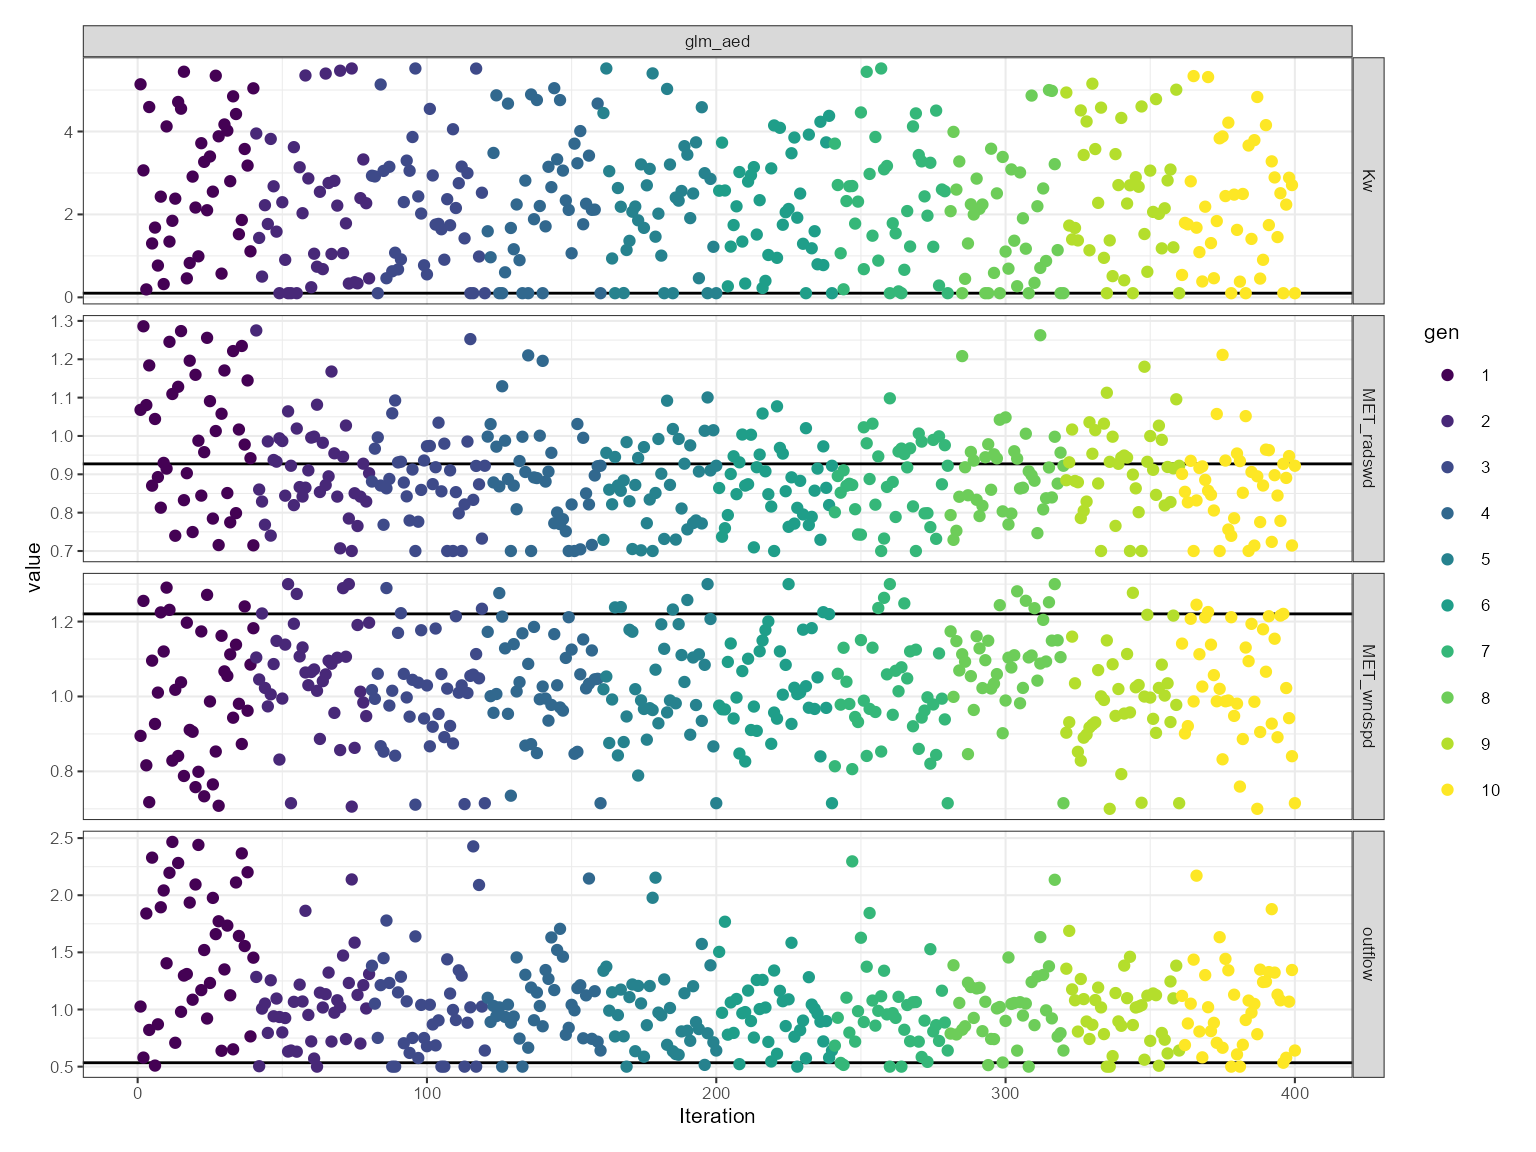
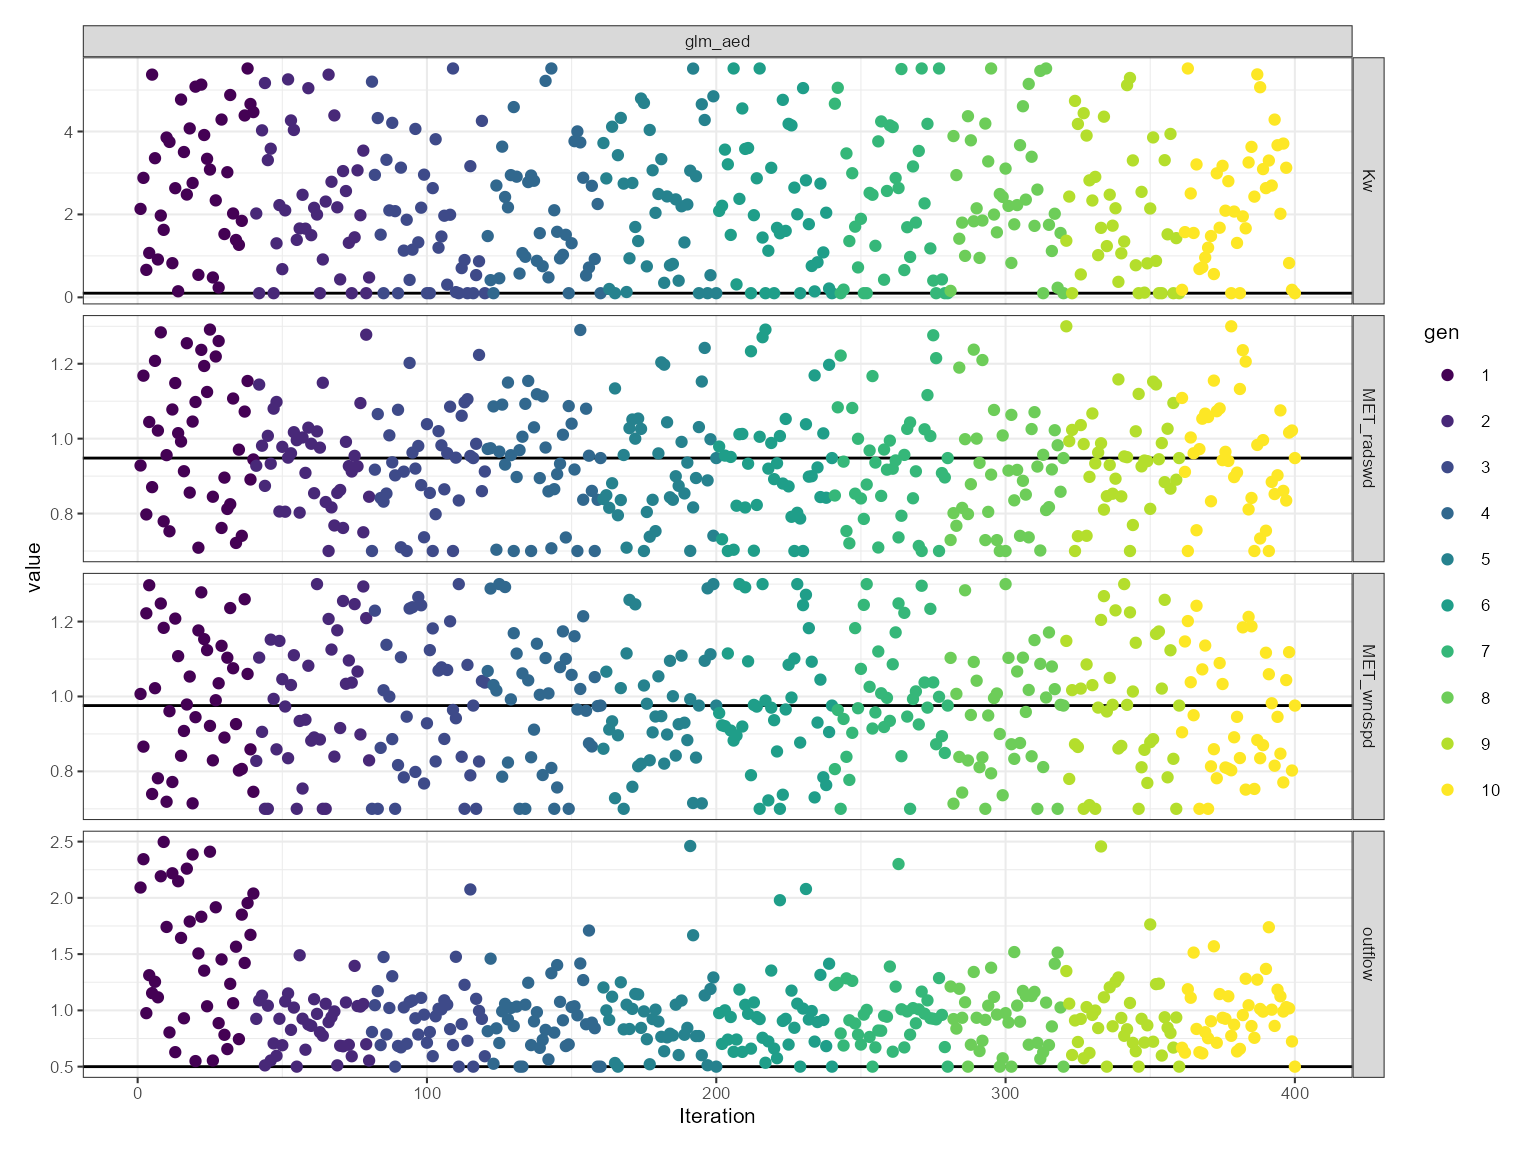
Deploying to gh-pages from @ limnotrack/aemetools@73e5802cea5f5069bd4aa08139f7fc129046e0c2 🚀

diff --git a/articles/calibrate-aeme.html b/articles/calibrate-aeme.html
@@ -121,9 +121,9 @@ make sure the current model setup is working.</p>
 <code class="sourceCode R"><span><span class="va">aeme_data</span> <span class="op">&lt;-</span> <span class="fu"><a href="https://rdrr.io/pkg/AEME/man/run_aeme.html" class="external-link">run_aeme</a></span><span class="op">(</span>aeme_data <span class="op">=</span> <span class="va">aeme_data</span>, model <span class="op">=</span> <span class="va">model</span>,</span>
 <span>                      verbose <span class="op">=</span> <span class="cn">FALSE</span>, mod_ctrls <span class="op">=</span> <span class="va">mod_ctrls</span>,</span>
 <span>                      path <span class="op">=</span> <span class="va">path</span><span class="op">)</span></span>
-<span><span class="co">#&gt; Running models... (Have you tried parallelizing?) [2023-11-07 03:07:08.982566]</span></span>
-<span><span class="co">#&gt; GLM-AED run successful! [2023-11-07 03:07:09.839955]</span></span>
-<span><span class="co">#&gt; Model run complete![2023-11-07 03:07:09.840931]</span></span>
+<span><span class="co">#&gt; Running models... (Have you tried parallelizing?) [2023-11-07 18:21:38.476862]</span></span>
+<span><span class="co">#&gt; GLM-AED run successful! [2023-11-07 18:21:39.209794]</span></span>
+<span><span class="co">#&gt; Model run complete![2023-11-07 18:21:39.210739]</span></span>
 <span><span class="co">#&gt; Retrieving and formatting temp for model glm_aed</span></span>
 <span><span class="co">#&gt; Retrieving and formatting salt for model glm_aed</span></span>
 <span><span class="fu"><a href="https://rdrr.io/r/graphics/plot.default.html" class="external-link">plot</a></span><span class="op">(</span><span class="va">aeme_data</span><span class="op">)</span></span></code></pre></div>
@@ -228,9 +228,9 @@ but the model output is generate within the lake folder.</p>
 <div class="sourceCode" id="cb7"><pre class="downlit sourceCode r">
 <code class="sourceCode R"><span><span class="fu"><a href="../reference/run_aeme_param.html">run_aeme_param</a></span><span class="op">(</span>aeme_data <span class="op">=</span> <span class="va">aeme_data</span>, param <span class="op">=</span> <span class="va">aeme_parameters</span>,</span>
 <span>                 model <span class="op">=</span> <span class="va">model</span>, path <span class="op">=</span> <span class="va">path</span>, mod_ctrls <span class="op">=</span> <span class="va">mod_ctrls</span><span class="op">)</span></span>
-<span><span class="co">#&gt; Running models... (Have you tried parallelizing?) [2023-11-07 03:07:20.865187]</span></span>
-<span><span class="co">#&gt; GLM-AED run successful! [2023-11-07 03:07:21.692246]</span></span>
-<span><span class="co">#&gt; Model run complete![2023-11-07 03:07:21.693143]</span></span></code></pre></div>
+<span><span class="co">#&gt; Running models... (Have you tried parallelizing?) [2023-11-07 18:21:52.118852]</span></span>
+<span><span class="co">#&gt; GLM-AED run successful! [2023-11-07 18:21:52.84572]</span></span>
+<span><span class="co">#&gt; Model run complete![2023-11-07 18:21:52.84661]</span></span></code></pre></div>
 </div>
 <div class="section level2">
 <h2 id="calibration-setup">Calibration setup<a class="anchor" aria-label="anchor" href="#calibration-setup"></a>
@@ -364,79 +364,79 @@ values.</p>
 <span>                   param <span class="op">=</span> <span class="va">aeme_parameters</span>, model <span class="op">=</span> <span class="va">model</span>,</span>
 <span>                   mod_ctrls <span class="op">=</span> <span class="va">mod_ctrls</span>, FUN <span class="op">=</span> <span class="va">fit</span>, ctrl <span class="op">=</span> <span class="va">ctrl</span>,</span>
 <span>                   vars_sim <span class="op">=</span> <span class="va">vars_sim</span>, weights <span class="op">=</span> <span class="va">weights</span><span class="op">)</span></span>
-<span><span class="co">#&gt; Extracting indices for modelled variables [2023-11-07 03:07:22.087382]</span></span>
-<span><span class="co">#&gt; Complete! [2023-11-07 03:07:23.004649]</span></span>
+<span><span class="co">#&gt; Extracting indices for modelled variables [2023-11-07 18:21:53.186543]</span></span>
+<span><span class="co">#&gt; Complete! [2023-11-07 18:21:54.066257]</span></span>
 <span><span class="co">#&gt; Calibrating in parallel using 1 cores...</span></span>
-<span><span class="co">#&gt; Starting generation 1/10, 40 members. [2023-11-07 03:07:23.305832]</span></span>
+<span><span class="co">#&gt; Starting generation 1/10, 40 members. [2023-11-07 18:21:54.332889]</span></span>
 <span><span class="co">#&gt;        light.Kw MET_wndspd MET_radswd outflow</span></span>
-<span><span class="co">#&gt; mean      2.816     0.9990     0.9994  1.4990</span></span>
-<span><span class="co">#&gt; median    2.857     0.9985     1.0000  1.4870</span></span>
-<span><span class="co">#&gt; sd        1.578     0.1743     0.1742  0.5879</span></span>
-<span><span class="co">#&gt; Best fit: 3.004 (sd: 325.652)</span></span>
-<span><span class="co">#&gt;             Parameters: [0.457, 1.197, 0.903, 1.31]</span></span>
+<span><span class="co">#&gt; mean      2.805     0.9995     0.9997  1.4990</span></span>
+<span><span class="co">#&gt; median    2.820     0.9983     1.0040  1.4790</span></span>
+<span><span class="co">#&gt; sd        1.597     0.1754     0.1766  0.5871</span></span>
+<span><span class="co">#&gt; Best fit: 2.79 (sd: 325.833)</span></span>
+<span><span class="co">#&gt;             Parameters: [0.479, 0.829, 0.845, 0.554]</span></span>
 <span><span class="co">#&gt; Survival rate: 1</span></span>
-<span><span class="co">#&gt; Starting generation 2/10, 40 members. [2023-11-07 03:08:03.691442]</span></span>
+<span><span class="co">#&gt; Starting generation 2/10, 40 members. [2023-11-07 18:22:30.49394]</span></span>
 <span><span class="co">#&gt;        light.Kw MET_wndspd MET_radswd outflow</span></span>
-<span><span class="co">#&gt; mean      2.034     1.0560     0.9097  1.0350</span></span>
-<span><span class="co">#&gt; median    1.907     1.0650     0.8988  1.0190</span></span>
-<span><span class="co">#&gt; sd        1.611     0.1415     0.1185  0.3445</span></span>
-<span><span class="co">#&gt; Best fit: 2.3153 (sd: 194.54)</span></span>
+<span><span class="co">#&gt; mean      2.304     0.9845     0.9390  0.8776</span></span>
+<span><span class="co">#&gt; median    2.129     0.9834     0.9412  0.9101</span></span>
+<span><span class="co">#&gt; sd        1.559     0.1780     0.1223  0.2378</span></span>
+<span><span class="co">#&gt; Best fit: 2.3165 (sd: 119.15)</span></span>
 <span><span class="co">#&gt; Survival rate: 1</span></span>
-<span><span class="co">#&gt; Starting generation 3/10, 40 members. [2023-11-07 03:08:44.778099]</span></span>
+<span><span class="co">#&gt; Starting generation 3/10, 40 members. [2023-11-07 18:23:07.828756]</span></span>
 <span><span class="co">#&gt;        light.Kw MET_wndspd MET_radswd outflow</span></span>
-<span><span class="co">#&gt; mean      2.210     1.0030     0.8888  1.0210</span></span>
-<span><span class="co">#&gt; median    2.226     1.0160     0.8799  1.0080</span></span>
-<span><span class="co">#&gt; sd        1.497     0.1381     0.1147  0.4438</span></span>
-<span><span class="co">#&gt; Best fit: 2.3153 (sd: 230.88)</span></span>
+<span><span class="co">#&gt; mean      1.854     0.9749     0.9268  0.9397</span></span>
+<span><span class="co">#&gt; median    1.489     0.9698     0.9284  0.9387</span></span>
+<span><span class="co">#&gt; sd        1.589     0.1838     0.1344  0.3052</span></span>
+<span><span class="co">#&gt; Best fit: 2.3126 (sd: 158.1)</span></span>
 <span><span class="co">#&gt; Survival rate: 1</span></span>
-<span><span class="co">#&gt; Starting generation 4/10, 40 members. [2023-11-07 03:09:26.310588]</span></span>
+<span><span class="co">#&gt; Starting generation 4/10, 40 members. [2023-11-07 18:23:44.351814]</span></span>
 <span><span class="co">#&gt;        light.Kw MET_wndspd MET_radswd outflow</span></span>
-<span><span class="co">#&gt; mean      2.396     1.0260     0.8890  1.0630</span></span>
-<span><span class="co">#&gt; median    2.221     1.0280     0.8889  1.0310</span></span>
-<span><span class="co">#&gt; sd        1.564     0.1285     0.1301  0.3361</span></span>
-<span><span class="co">#&gt; Best fit: 2.3153 (sd: 217.68)</span></span>
+<span><span class="co">#&gt; mean      1.988     0.9905     0.9437  0.9209</span></span>
+<span><span class="co">#&gt; median    1.564     1.0120     0.9551  0.8967</span></span>
+<span><span class="co">#&gt; sd        1.445     0.1688     0.1470  0.2887</span></span>
+<span><span class="co">#&gt; Best fit: 2.3126 (sd: 164.27)</span></span>
 <span><span class="co">#&gt; Survival rate: 1</span></span>
-<span><span class="co">#&gt; Starting generation 5/10, 40 members. [2023-11-07 03:10:06.952349]</span></span>
+<span><span class="co">#&gt; Starting generation 5/10, 40 members. [2023-11-07 18:24:21.590233]</span></span>
 <span><span class="co">#&gt;        light.Kw MET_wndspd MET_radswd outflow</span></span>
-<span><span class="co">#&gt; mean      2.286     1.0320     0.8770  0.9948</span></span>
-<span><span class="co">#&gt; median    2.261     1.0060     0.8723  0.9500</span></span>
-<span><span class="co">#&gt; sd        1.497     0.1406     0.1085  0.3671</span></span>
-<span><span class="co">#&gt; Best fit: 2.3153 (sd: 198.72)</span></span>
+<span><span class="co">#&gt; mean      2.315     0.9584     0.9215  0.9369</span></span>
+<span><span class="co">#&gt; median    2.398     0.9400     0.8917  0.8731</span></span>
+<span><span class="co">#&gt; sd        1.645     0.1563     0.1434  0.3550</span></span>
+<span><span class="co">#&gt; Best fit: 2.3126 (sd: 141.28)</span></span>
 <span><span class="co">#&gt; Survival rate: 1</span></span>
-<span><span class="co">#&gt; Starting generation 6/10, 40 members. [2023-11-07 03:10:47.974235]</span></span>
+<span><span class="co">#&gt; Starting generation 6/10, 40 members. [2023-11-07 18:24:58.867727]</span></span>
 <span><span class="co">#&gt;        light.Kw MET_wndspd MET_radswd outflow</span></span>
-<span><span class="co">#&gt; mean      2.138     1.0240    0.87190  0.9590</span></span>
-<span><span class="co">#&gt; median    2.092     1.0050    0.86770  0.9651</span></span>
-<span><span class="co">#&gt; sd        1.309     0.1263    0.09533  0.2917</span></span>
-<span><span class="co">#&gt; Best fit: 2.3153 (sd: 172.73)</span></span>
+<span><span class="co">#&gt; mean      2.228     0.9776     0.9260  0.9327</span></span>
+<span><span class="co">#&gt; median    2.022     0.9605     0.9215  0.9169</span></span>
+<span><span class="co">#&gt; sd        1.613     0.1761     0.1562  0.3404</span></span>
+<span><span class="co">#&gt; Best fit: 2.3126 (sd: 180.25)</span></span>
 <span><span class="co">#&gt; Survival rate: 1</span></span>
-<span><span class="co">#&gt; Starting generation 7/10, 40 members. [2023-11-07 03:11:29.557192]</span></span>
+<span><span class="co">#&gt; Starting generation 7/10, 40 members. [2023-11-07 18:25:35.749183]</span></span>
 <span><span class="co">#&gt;        light.Kw MET_wndspd MET_radswd outflow</span></span>
-<span><span class="co">#&gt; mean      2.321     1.0040     0.8813  0.9679</span></span>
-<span><span class="co">#&gt; median    2.379     0.9844     0.8777  0.9146</span></span>
-<span><span class="co">#&gt; sd        1.506     0.1343     0.1014  0.3732</span></span>
-<span><span class="co">#&gt; Best fit: 2.3153 (sd: 205.18)</span></span>
+<span><span class="co">#&gt; mean      2.262     0.9972     0.9298  0.9635</span></span>
+<span><span class="co">#&gt; median    2.080     0.9730     0.9279  0.9368</span></span>
+<span><span class="co">#&gt; sd        1.757     0.1528     0.1492  0.3070</span></span>
+<span><span class="co">#&gt; Best fit: 2.3126 (sd: 130.82)</span></span>
 <span><span class="co">#&gt; Survival rate: 1</span></span>
-<span><span class="co">#&gt; Starting generation 8/10, 40 members. [2023-11-07 03:12:10.921835]</span></span>
+<span><span class="co">#&gt; Starting generation 8/10, 40 members. [2023-11-07 18:26:12.821861]</span></span>
 <span><span class="co">#&gt;        light.Kw MET_wndspd MET_radswd outflow</span></span>
-<span><span class="co">#&gt; mean      1.863      1.091     0.9013   1.012</span></span>
-<span><span class="co">#&gt; median    1.952      1.100     0.8904   1.001</span></span>
-<span><span class="co">#&gt; sd        1.469      0.116     0.1120   0.321</span></span>
-<span><span class="co">#&gt; Best fit: 2.3153 (sd: 184.88)</span></span>
+<span><span class="co">#&gt; mean      2.477     0.9494     0.8998  0.9401</span></span>
+<span><span class="co">#&gt; median    2.176     0.9672     0.8957  0.9343</span></span>
+<span><span class="co">#&gt; sd        1.520     0.1574     0.1428  0.2858</span></span>
+<span><span class="co">#&gt; Best fit: 2.3126 (sd: 177.22)</span></span>
 <span><span class="co">#&gt; Survival rate: 1</span></span>
-<span><span class="co">#&gt; Starting generation 9/10, 40 members. [2023-11-07 03:12:51.335491]</span></span>
+<span><span class="co">#&gt; Starting generation 9/10, 40 members. [2023-11-07 18:26:49.942946]</span></span>
 <span><span class="co">#&gt;        light.Kw MET_wndspd MET_radswd outflow</span></span>
-<span><span class="co">#&gt; mean      2.467     0.9786     0.9138  0.9780</span></span>
-<span><span class="co">#&gt; median    2.271     0.9841     0.9208  1.0220</span></span>
-<span><span class="co">#&gt; sd        1.528     0.1303     0.1095  0.2863</span></span>
-<span><span class="co">#&gt; Best fit: 2.3153 (sd: 177.41)</span></span>
+<span><span class="co">#&gt; mean      2.068     0.9729     0.9444  0.9371</span></span>
+<span><span class="co">#&gt; median    1.702     0.9766     0.9433  0.8888</span></span>
+<span><span class="co">#&gt; sd        1.592     0.1791     0.1315  0.3647</span></span>
+<span><span class="co">#&gt; Best fit: 2.3126 (sd: 166.79)</span></span>
 <span><span class="co">#&gt; Survival rate: 1</span></span>
-<span><span class="co">#&gt; Starting generation 10/10, 40 members. [2023-11-07 03:13:33.119106]</span></span>
+<span><span class="co">#&gt; Starting generation 10/10, 40 members. [2023-11-07 18:27:26.891929]</span></span>
 <span><span class="co">#&gt;        light.Kw MET_wndspd MET_radswd outflow</span></span>
-<span><span class="co">#&gt; mean      2.179     1.0290     0.8674  1.0380</span></span>
-<span><span class="co">#&gt; median    2.013     1.0210     0.8781  1.0500</span></span>
-<span><span class="co">#&gt; sd        1.492     0.1498     0.1090  0.3797</span></span>
-<span><span class="co">#&gt; Best fit: 2.3133 (sd: 209.42)</span></span>
+<span><span class="co">#&gt; mean      2.237     0.9479     0.9544  0.9680</span></span>
+<span><span class="co">#&gt; median    2.079     0.9250     0.9545  0.9461</span></span>
+<span><span class="co">#&gt; sd        1.462     0.1581     0.1493  0.2786</span></span>
+<span><span class="co">#&gt; Best fit: 2.3126 (sd: 179.96)</span></span>
 <span><span class="co">#&gt; Survival rate: 1</span></span></code></pre></div>
 </div>
 <div class="section level2">

diff --git a/articles/download-era5.html b/articles/download-era5.html
@@ -94,8 +94,8 @@ your computer to speed up the download.</p>
 <span><span class="va">met</span> <span class="op">&lt;-</span> <span class="fu"><a href="../reference/get_era5_point.html">get_era5_point</a></span><span class="op">(</span>lat <span class="op">=</span> <span class="va">lat</span>, lon <span class="op">=</span> <span class="va">lon</span>, years <span class="op">=</span> <span class="fl">2000</span><span class="op">:</span><span class="fl">2001</span>,</span>
 <span>                      variables <span class="op">=</span> <span class="va">variables</span>, format <span class="op">=</span> <span class="st">"aeme"</span>, parallel <span class="op">=</span> <span class="cn">TRUE</span><span class="op">)</span></span>
 <span><span class="co">#&gt; Auto-refreshing stale OAuth token.</span></span>
-<span><span class="co">#&gt; Downloading ERA5 variables in parallel... [2023-11-07 03:14:27.658778]</span></span>
-<span><span class="co">#&gt; Finished downloading ERA5 variables! [2023-11-07 03:14:38.165866]</span></span>
+<span><span class="co">#&gt; Downloading ERA5 variables in parallel... [2023-11-07 18:28:15.156276]</span></span>
+<span><span class="co">#&gt; Finished downloading ERA5 variables! [2023-11-07 18:28:25.992346]</span></span>
 <span><span class="fu"><a href="https://rdrr.io/r/base/summary.html" class="external-link">summary</a></span><span class="op">(</span><span class="va">met</span><span class="op">)</span></span>
 <span><span class="co">#&gt;       Date              MET_tmpair       MET_pprain     </span></span>
 <span><span class="co">#&gt;  Min.   :2000-01-01   Min.   : 3.407   Min.   : 0.0000  </span></span>
